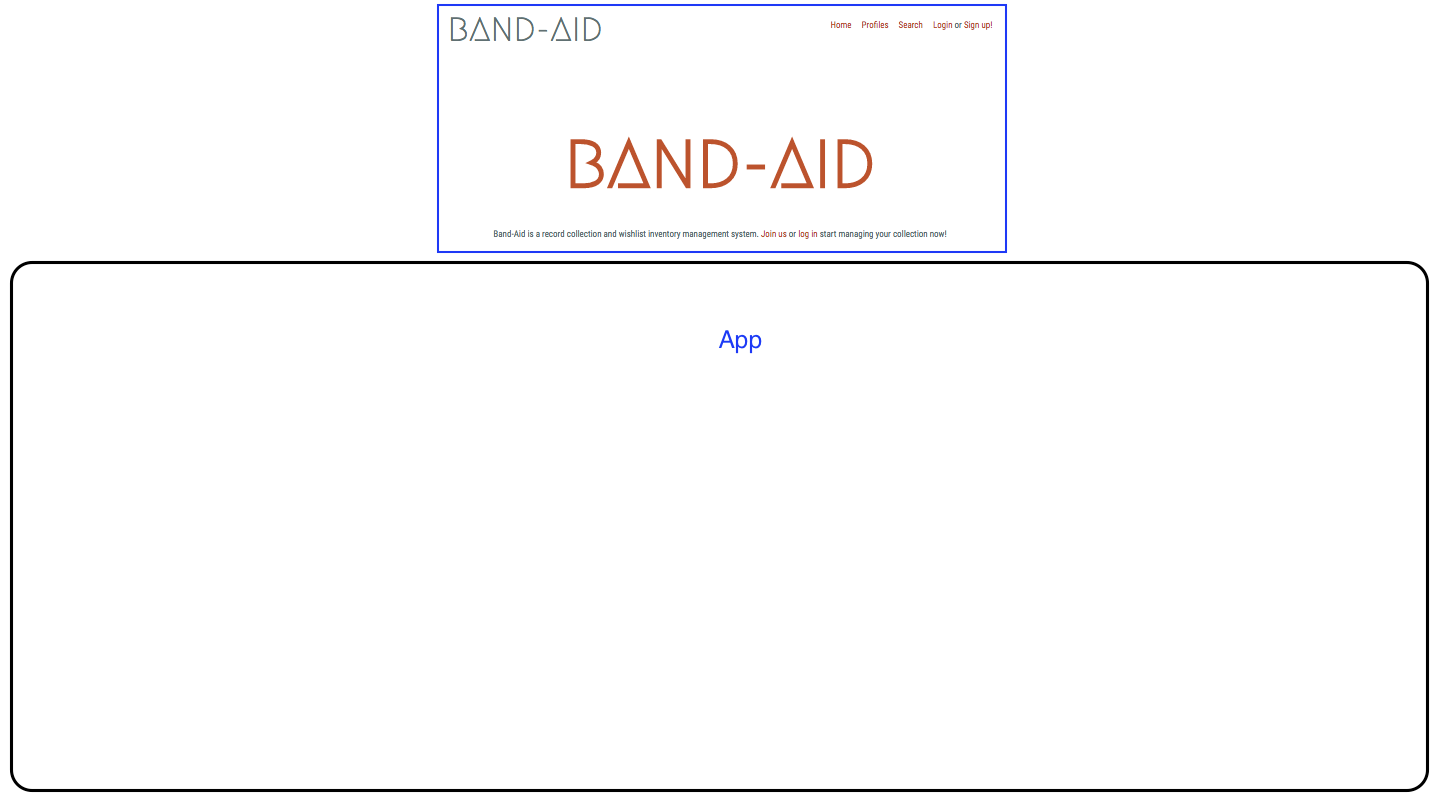
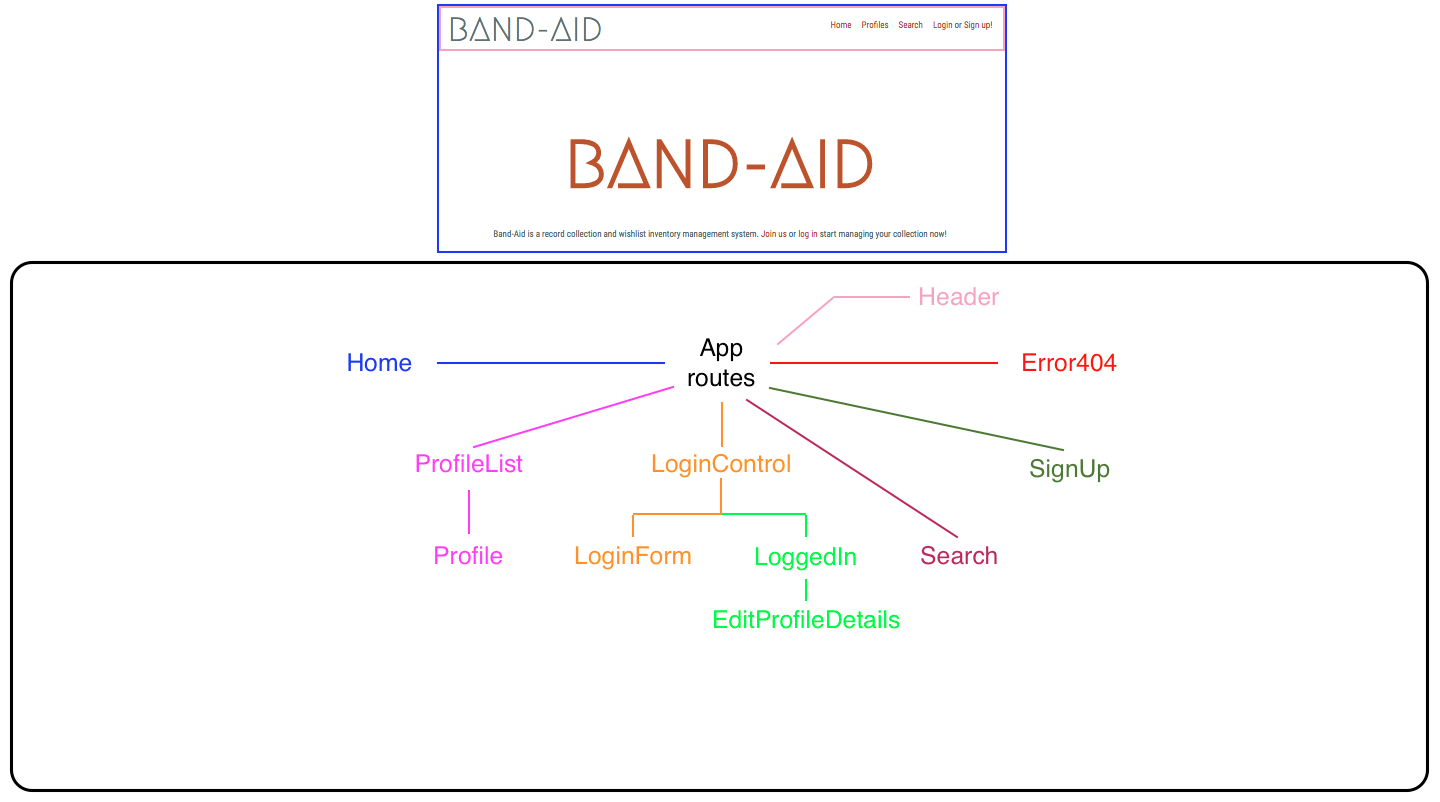
remove admin.jsx and update README with new notes and added signup to component tree

diff --git a/src/components/UserProfileList.jsx b/src/components/UserProfileList.jsx
@@ -2,7 +2,7 @@ import React from 'react';
 import UserProfile from './UserProfile';
 
 const masterUserProfileList = [
-  {
+  { 
     name: 'Adam Smith'
   },
   {

diff --git a/README.md b/README.md
@@ -17,7 +17,11 @@ BandAid is a record collection management application. Users will be able to sea
 
 ## Notes
 
-Haven't faced any problems or reached any obstacles reconfiguring from Angular to React as of yet. 😎
+1/9/2018
+  Haven't faced any problems or reached any obstacles reconfiguring from Angular to React as of yet. 😎
+
+1/16/2018
+  Reconstructing my component tree from more of a browser routing to component routing that includes all my functions, and where to place state components. This is taking way more time to figure out. For now I'm going to start simple with the sign-up form with in app will hold my state to create new user profile in profiles.
 
 ## Setup/Installation Requirements
 
